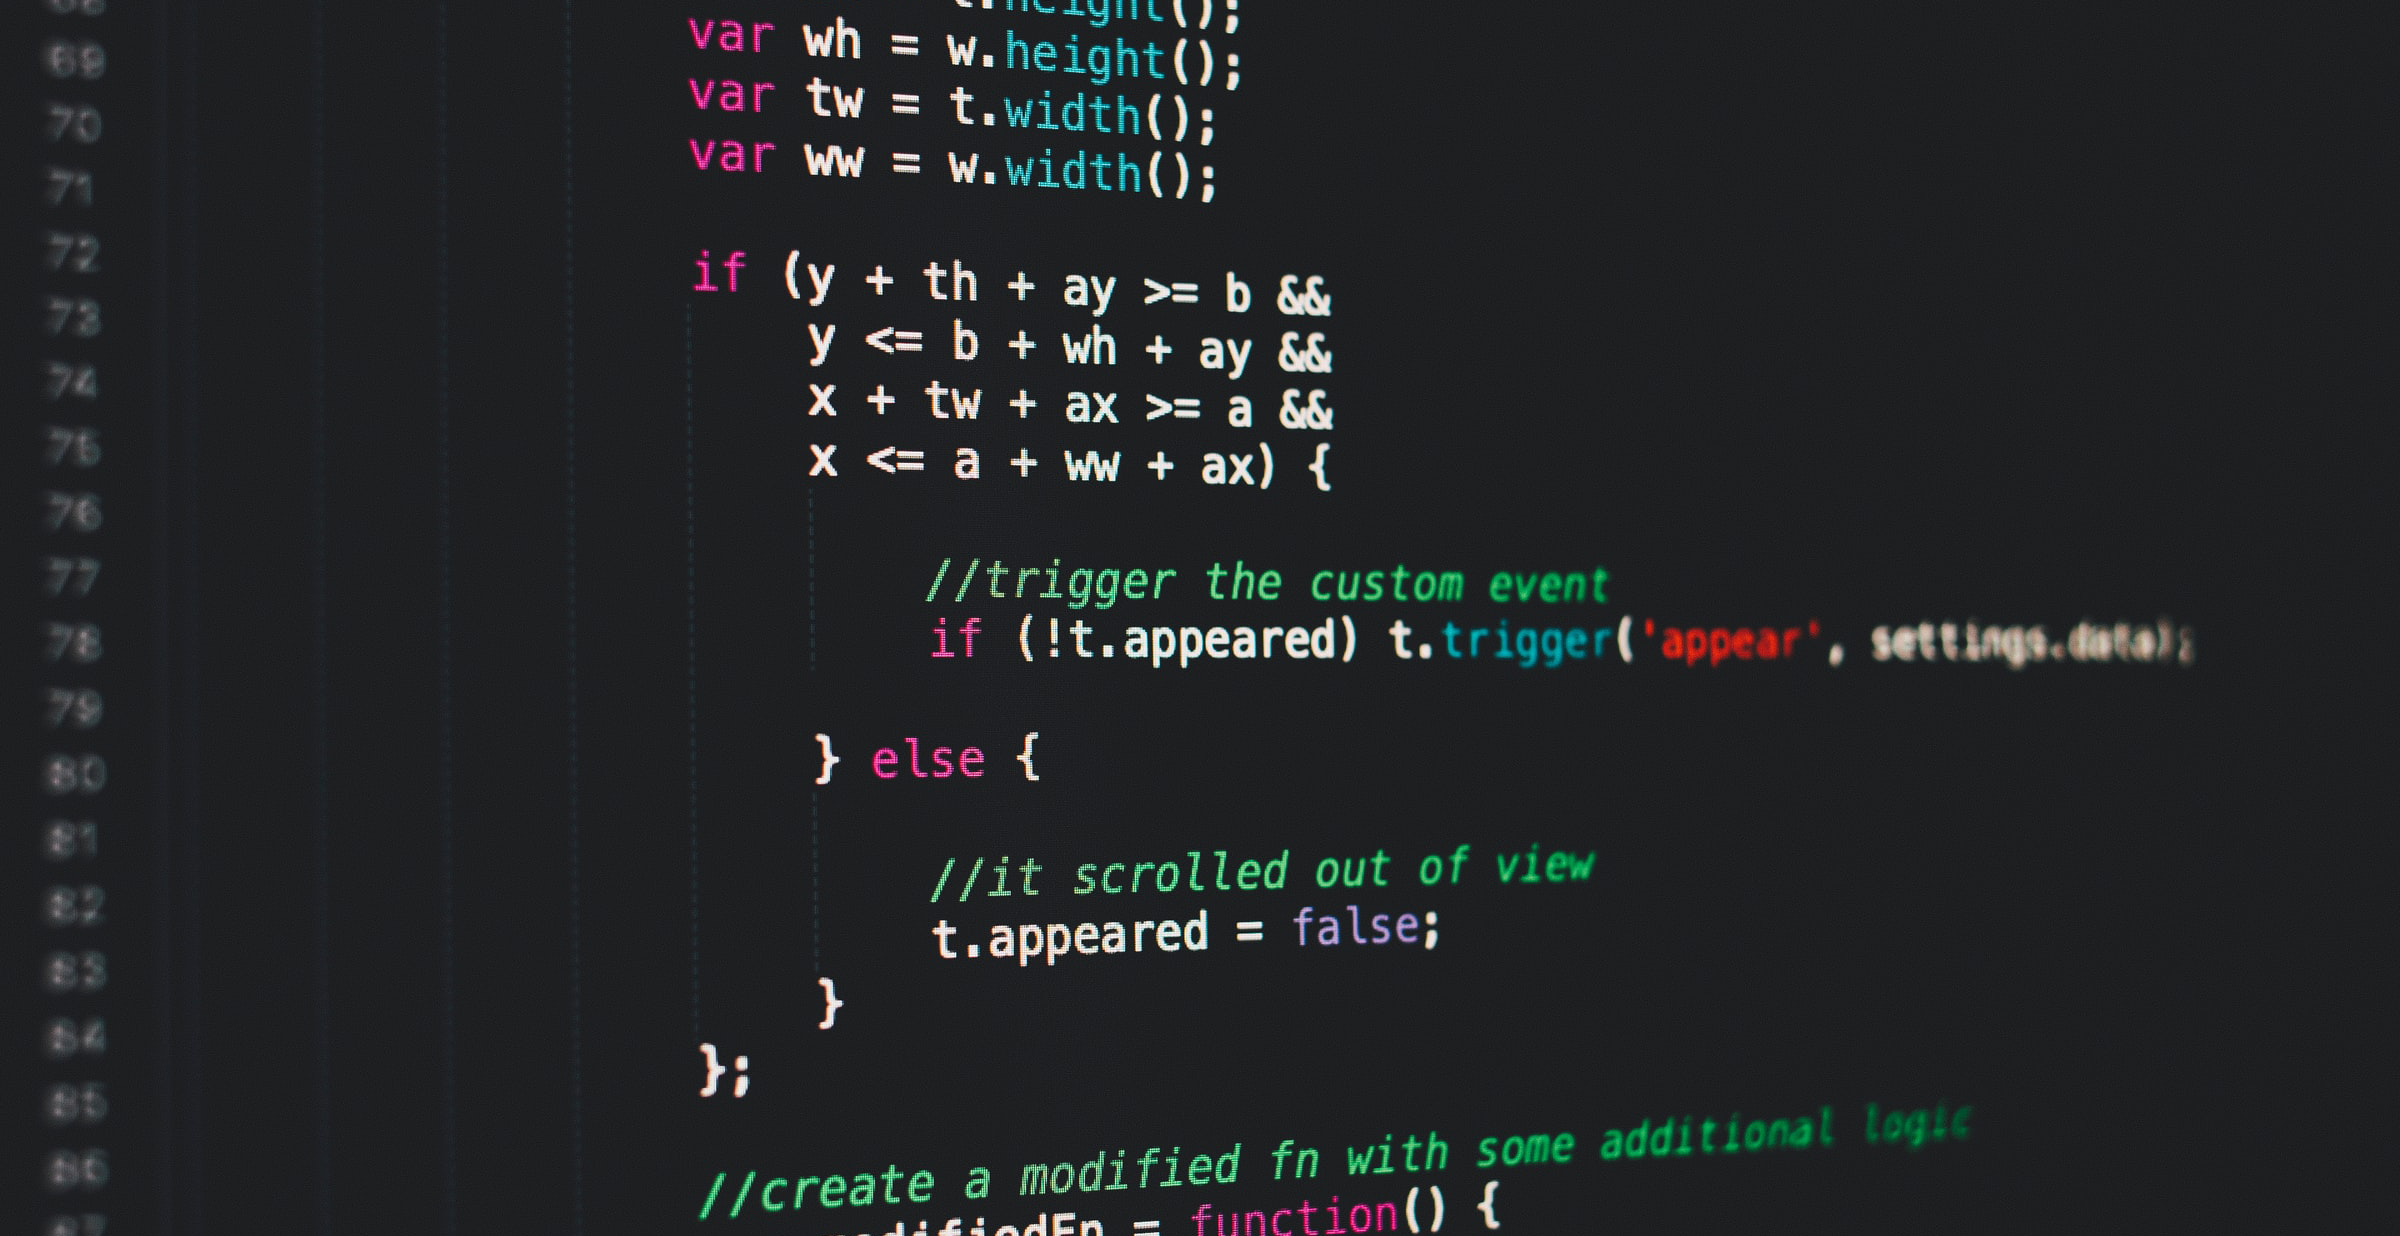
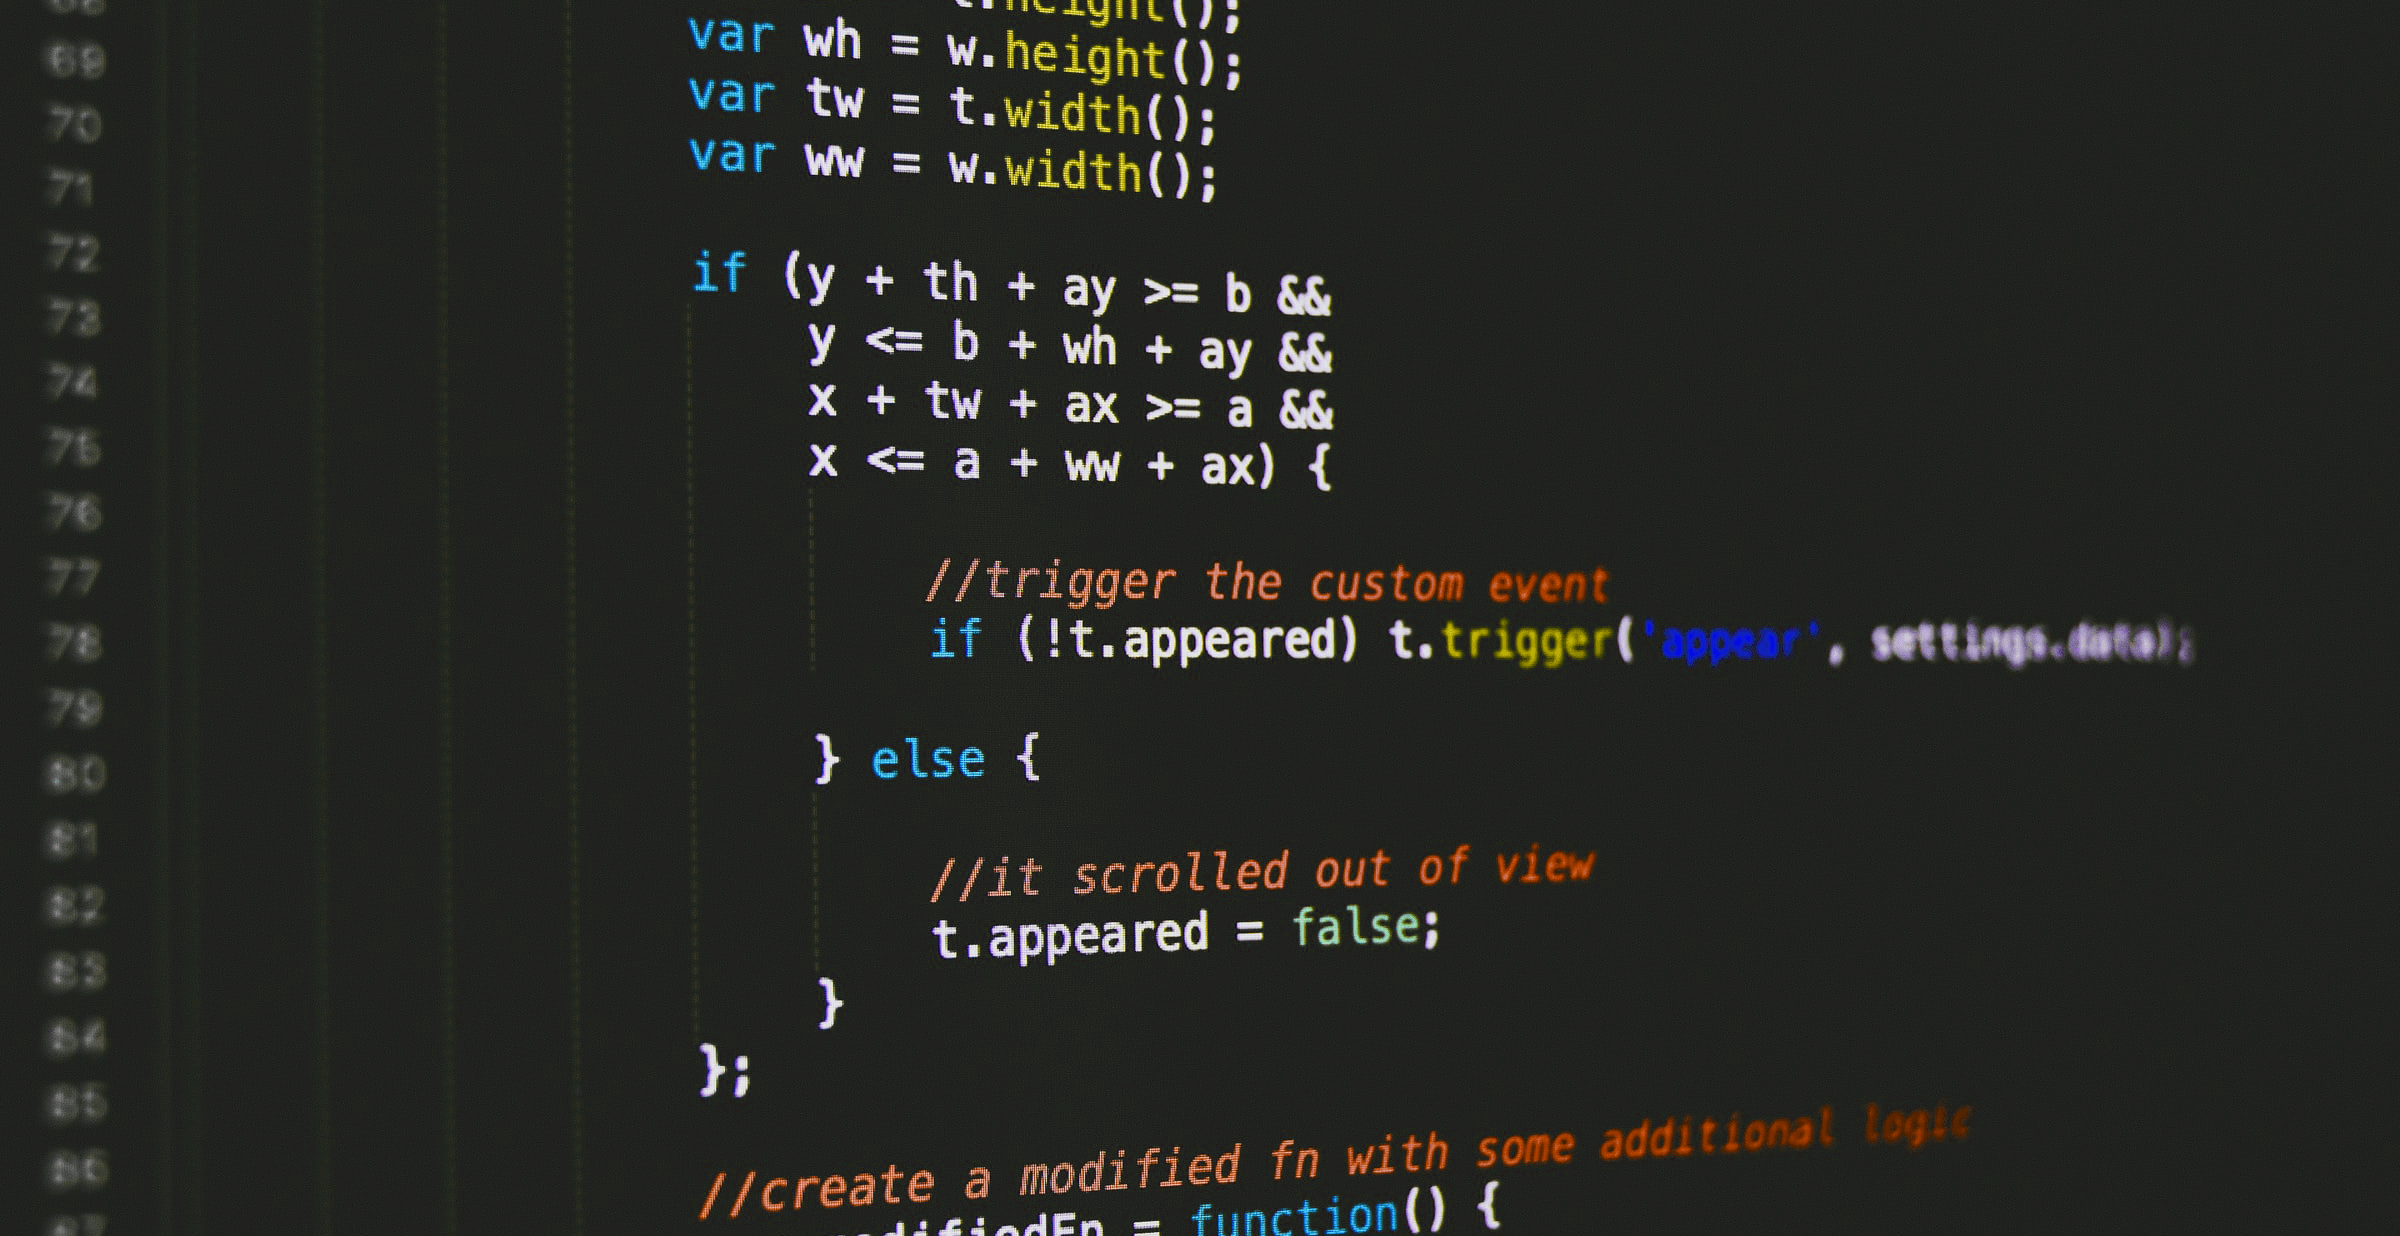
'colors'

diff --git a/frontend/src/pages/Home/HomeComponents/Content/Content.tsx b/frontend/src/pages/Home/HomeComponents/Content/Content.tsx
@@ -7,16 +7,13 @@ import { motion, useAnimation } from 'framer-motion';
 export default function Content() {
     const controls = useAnimation();
     const itemsvertical = {
-            visible: { opacity: 1, y:0 },
-            hidden: { opacity: 0, y:-200 },
+            visible: { opacity: 0.8, y:0 },
+            hidden: { opacity: 0, y:-250 },
     }
-    const itemshorizontal = {
-        visible: { opacity: 1, x:0 },
-        hidden: { opacity: 0, x:200 },
-    }
+
     window.addEventListener("scroll", () => {
 
-        if (window.pageYOffset > 650) {
+        if (window.pageYOffset > 500) {
         controls.start("visible");
         }
     });
@@ -33,15 +30,16 @@ export default function Content() {
                         initial="hidden"
                         animate={controls}
                         variants={itemsvertical}
-                        transition={{ease: "easeOut", duration: 0.7}}
+                        transition={{ease: "easeOut"}}
                         className="content-divider-vertical" />
                         <div className="content-text">
-                            <div className="content-divider-text">Fullstack Css</div>
-                            <motion.div
-                            initial="hidden"
-                            animate={controls}
-                            variants={itemshorizontal}
-                            transition={{ease: "easeOut"}}
+                            <div className="content-divider-text">
+                                Un tio sencillo fullstack css, <br/>
+                                atrevido, racional terapeutico <br/>
+
+                            </div>
+                            <div
+
                             className="content-divider-horizontal" />
                         </div>
 

diff --git a/frontend/src/pages/Home/HomeComponents/Content/Content.scss b/frontend/src/pages/Home/HomeComponents/Content/Content.scss
@@ -1,6 +1,7 @@
 @import '../../../../Utilities/_variables.scss';
 
 .content-wrapper{
+    border-top: 2px $light;
     position: relative;
     min-height: 100vh;
 }
@@ -11,16 +12,19 @@
 .content-mid{
 
     .content-span{
-        height: 70vh;
+        height: 45vh;
     }
     .content-mid-top{
         display: grid;
         grid-template-columns: 2.5fr 2.5fr;
-
-        background-color: $light;
+        background-image: url("../../../../media/whiteb.png");
+        background-attachment: fixed;
+        background-size: cover;
+        background-position: baseline;
     }
     .content-mid-mid{
-        background-color: $dark;
+        background-color: $light;
+        height: 80vh;
     }
     .content-span-gallery{
         display: flex;
@@ -41,22 +45,26 @@
         display: flex;
         align-items: center;
         justify-content: center;
+        transform: skewX(0deg);
     }
     .content-divider-vertical{
             height: 50%;
             width: 10px;
-            background-color: $blue;
+            background-color: $red;
             z-index: 20;
+
+
 
         }
     .content-text{
-        height: 32%;
+        transform: skewX(0deg);
+        height: 70%;
         width: 50%;
         justify-content: center;
         .content-divider-text{
             font-family: 'Montserrat';
             font-weight: 700;
-            color: $dark;
+            color: $light;
             font-size: 30px;
             height: 100%;
             display: flex;
@@ -65,10 +73,10 @@
         }
     }
     .content-divider-horizontal{
-        margin-left: -57px;
-        height: 5px;
-        width: 90%;
-        background-color: $green;
+        margin-left: -40%;
+        height: 1px;
+        width: 370%;
+        background-color: $red;
 
     }
 }

diff --git a/frontend/src/pages/Home/HomeComponents/Content/ContentComponents/FloatingCards/FloatingCards.scss b/frontend/src/pages/Home/HomeComponents/Content/ContentComponents/FloatingCards/FloatingCards.scss
@@ -24,20 +24,21 @@
             background-size: cover;
         }
         .image1{
-            background-image: url("../../../../../../media/Python.jpg");
+            background-image: url("../../../../../../media/Python.jpg.png");
         }
         .image2{
-            background-image: url("../../../../../../media/Guitar.jpg");
+            background-image: url("../../../../../../media/Guitar-min.jpg");
         }
         .image3{
             background-image: url("../../../../../../media/JS.png");
         }
         .image4{
-            background-image: url("../../../../../../media/Prod.jpg");
+            background-image: url("../../../../../../media/Prod.jpg.png");
         }
 
     }
     .float-cards-text{
+        padding-bottom: 10px;
         color: white;
         position: absolute;
         top: 0;
@@ -46,7 +47,7 @@
         height: 100vh;
         width: 100%;
         justify-content: center;
-        background-color: rgba(2, 43, 58, 0.137);
+        background-color: rgba(2, 43, 58, 0);
         transition: background-color 1.5s;
     }
     .float-cards-text-active{

diff --git a/frontend/src/pages/Home/HomeComponents/Topbar/Topbar.scss b/frontend/src/pages/Home/HomeComponents/Topbar/Topbar.scss
@@ -33,7 +33,7 @@
     width: 100%;
     transition: background-color 1s, margin-left 1.2s !important;
     margin-left: 0;
-    box-shadow: 0px 0px 3px 0.5px $blue;
+    box-shadow: 0px 1px 3px 0.1px rgba(42, 42, 114, 0.418);
     .topbar-icon{
     padding-right: 15px;
     font-family: "Montserrat";

diff --git a/frontend/src/Utilities/_variables.scss b/frontend/src/Utilities/_variables.scss
@@ -1,5 +1,5 @@
-$light: #EEF8FF;
-$red: #EE6352;
-$blue: #BFDBF7;
-$green: #1F7A8C;
-$dark: #022B3A;
+$light: #EAF6FF;
+$red: #FFA400;
+$blue: #009FFD;
+$green: #2A2A72;
+$dark: #232528;
